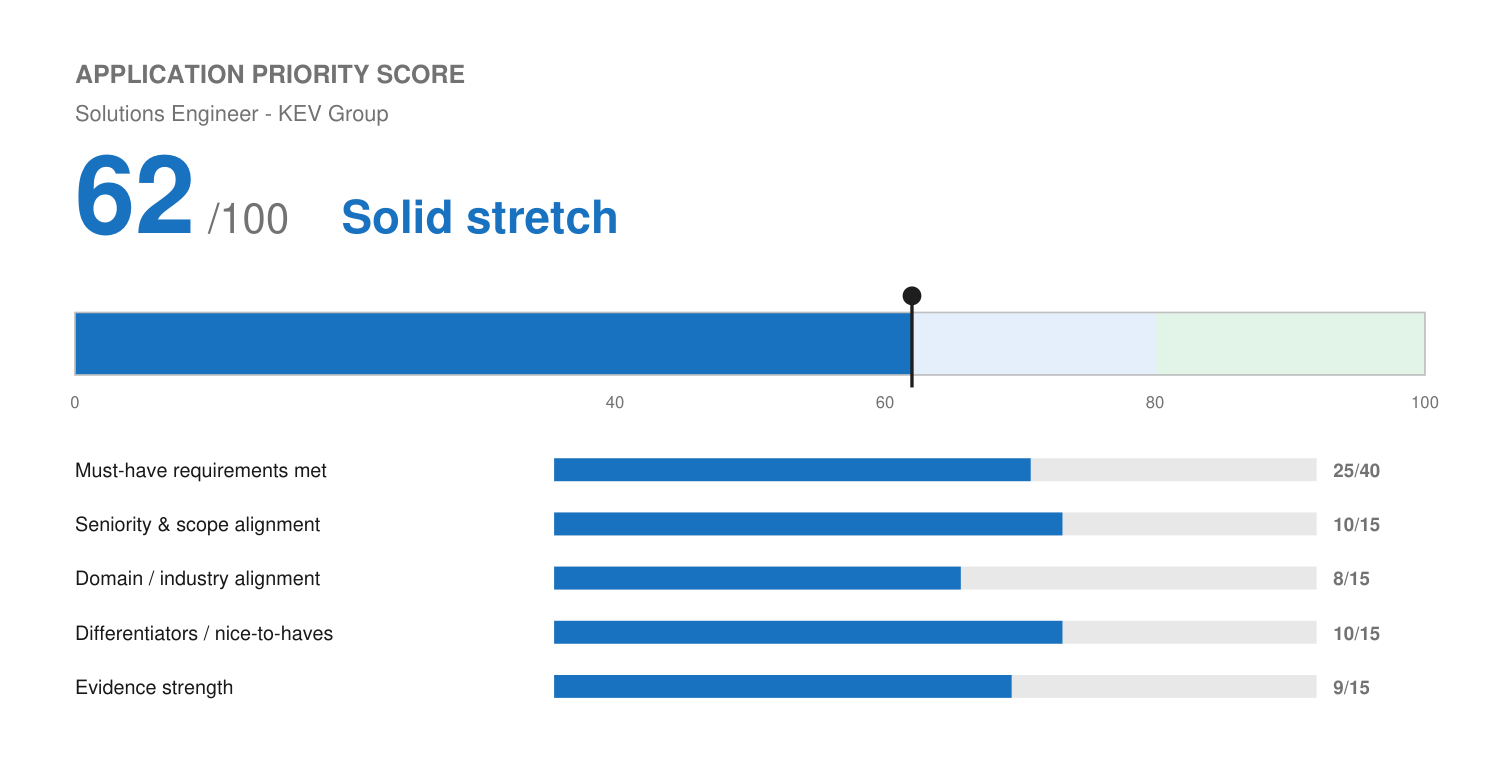
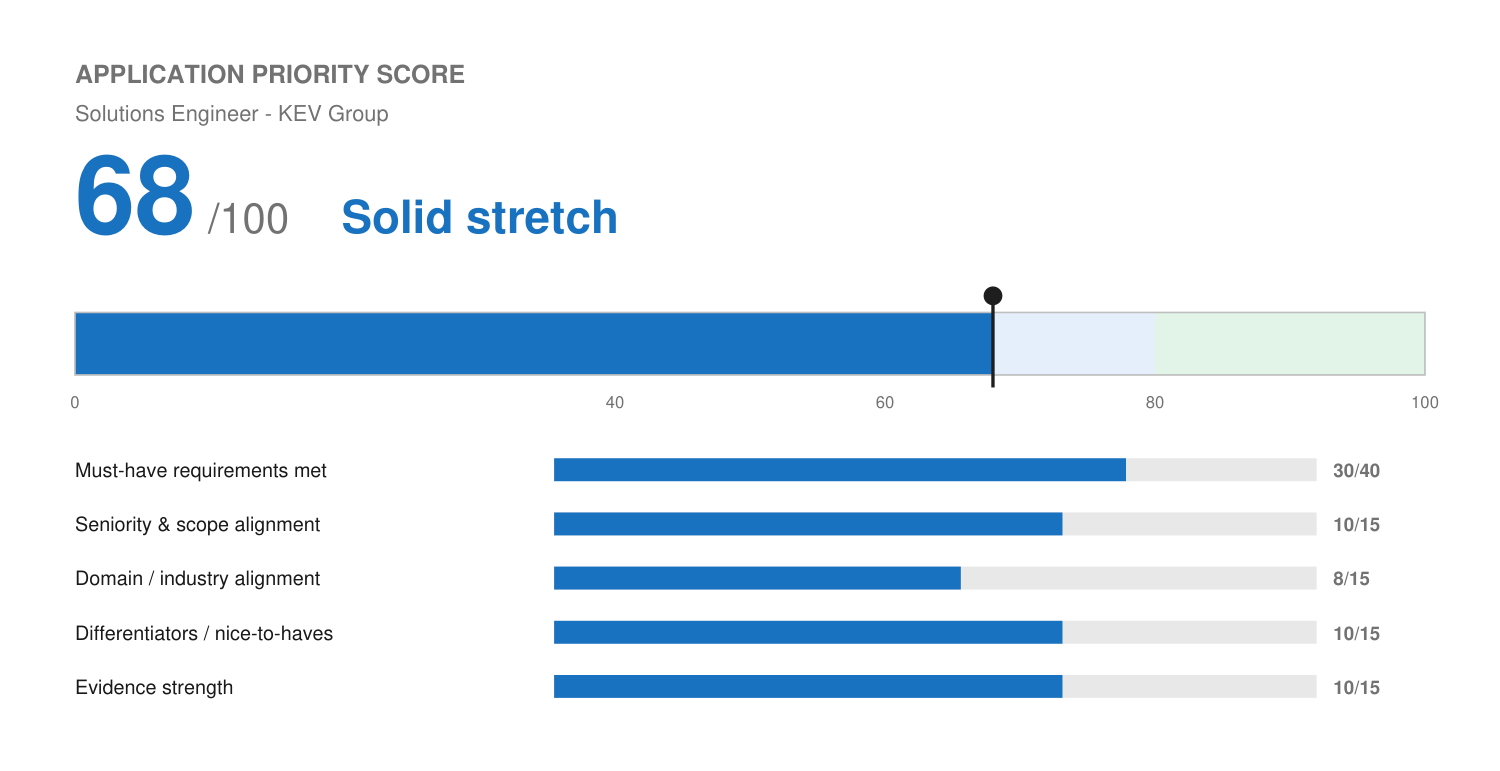
Profile: confirm daily product demos (all tech sales roles) and tradeshows (Accelo, Birdeye, Level). KEV resume updated, score 68
Claude-Session: https://claude.ai/code/session_01Quz1wQsVbycgj85WWSYfNT

diff --git a/applications/kev-group-solutions-engineer/match-report.md b/applications/kev-group-solutions-engineer/match-report.md
@@ -19,18 +19,18 @@
 ## Application Priority Score
 
 ```
-🟡 Application Priority Score: 62 / 100 — Solid stretch
-[████████████░░░░░░░░]  62%
+🟡 Application Priority Score: 68 / 100 — Solid stretch
+[██████████████░░░░░░]  68%
 ```
 *Internal decision aid, not a prediction of any employer's score or decision.* See `fit.png`.
 
 | Dimension | Score | Max | Why |
 | :--- | ---: | ---: | :--- |
-| Must-have requirements met | 25 | 40 | Communication, interpersonal, detail, time zones, big-picture solution design all land. Technical degree not met; 3+ yrs under an SE title not met (adjacent via Accelo); product demos not documented. |
+| Must-have requirements met | 30 | 40 | Communication, interpersonal, detail, time zones, solution design, and daily product demos (confirmed Oct 2026) all land. Technical degree not met; no SE title. |
 | Seniority & scope alignment | 10 | 15 | Individual SE supporting AEs; level fits, title history doesn't. |
 | Domain / industry alignment | 8 | 15 | Business/ops SaaS sold to organizations (Accelo PSA is close to "financial management" software). No K-12 or EdTech; personal family connection only (wife is a school VP). |
 | Differentiators / nice-to-haves | 10 | 15 | API integrations, SQL, scripting, automation, LLM workflows, product-feedback loop, sales training for AEs at Wix. |
-| Evidence strength | 9 | 15 | Accelo top-3 and implementation planning, Wix 120%/110%. No demo-to-close or win-rate metric. |
+| Evidence strength | 10 | 15 | Accelo top-3 and implementation planning, Wix 120%/110%. No demo-to-close or win-rate metric. |
 
 ## Requirement coverage
 
@@ -39,11 +39,11 @@
 | Technical bachelor's | Gap | B.A. Liberal Arts |
 | 3+ yrs SE / pre-sales | Adjacent | Accelo technical AE, Wix sales + implementation, Solenzo solution design |
 | SME across the sales cycle | Strong | Accelo scoping, implementation plans, C-suite advisory |
-| Product demos to technical and non-technical | Confirmation needed | Not documented |
+| Product demos to technical and non-technical | Strong | Daily demos at Fivestars, Accelo, Wix, Birdeye |
 | Product/engineering feedback loop | Strong | Birdeye |
 | AE territory and account planning | Adjacent | AE himself at Accelo, Fivestars, Fetch & Funnel |
 | Enable sales on new features | Strong | Developed sales training for tenured AEs at Wix |
-| Events / tradeshows | Confirmation needed | Not documented |
+| Events / tradeshows | Strong | Accelo, Birdeye, Level Agency |
 | Communication, detail | Strong | |
 
 ## Gaps
@@ -52,8 +52,7 @@
 - K-12 / EdTech industry.
 
 ## Candidate confirmation needed
-1. **Product demos:** did you run software demos at Accelo, Fivestars, Wix, or Birdeye? Likely yes as an AE; it's the core of this job, so it should be on the page.
-2. **Tradeshows/events:** worked any for an employer?
+None open. Demos and tradeshows confirmed Oct 2026 and added to profile.
 
 ## Output files
 - `Rotenberg Resume - KEV Group - Solutions Engineer.pdf` (working copies `resume.*`)

diff --git a/profile/master-profile.md b/profile/master-profile.md
@@ -64,6 +64,14 @@
 > Birdeye, Fetch & Funnel, Level Agency, Solenzo). Safe to name in a bullet for any of
 > those roles.
 >
+> **Product demos (confirmed by Josh, Oct 2026, DO NOT RE-ASK):** ran live software demos
+> daily in every tech sales role (Fivestars, Accelo, Wix, Birdeye), to technical and
+> non-technical buyers. Treat demo delivery as a core, claimable skill for any sales,
+> pre-sales, SE, or onboarding posting.
+>
+> **Tradeshows / events (confirmed by Josh, Oct 2026):** represented the company at
+> tradeshows and events at Accelo, Birdeye, and Level Agency.
+>
 > **Non-standard schedules:** evenings, weekends, and holidays are acceptable for the right
 > role (confirmed Aug 2026 re: DCPA).
 >
